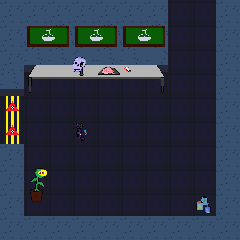
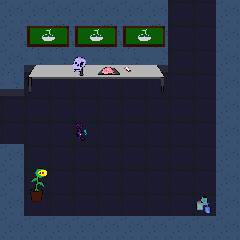
natureza3

Changed region(s): [[0.0, 0.3792, 0.0875, 0.6125]]

diff --git a/pages/natureza3.html b/pages/natureza3.html
@@ -1,0 +1,133 @@
+<link rel="stylesheet" href="../src/style.css">
+<script src="https://cdnjs.cloudflare.com/ajax/libs/jquery/3.7.1/jquery.min.js" integrity="sha512-v2CJ7UaYy4JwqLDIrZUI/4hqeoQieOmAZNXBeQyjo21dadnwR+8ZaIJVT8EE2iyI61OV8e6M8PP2/4hpQINQ/g==" crossorigin="anonymous" referrerpolicy="no-referrer"></script>
+
+<style>
+    .map {
+    background-image: url("../img/Map017.png");
+    width: calc(19 * var(--grid-cell));
+    height: calc(19 * var(--grid-cell));
+    }
+
+    #taskSet {
+        width: 210px;
+        height: 90px;
+        top: 150;
+        left: 140;
+    }
+
+    #taskOct {
+        width: 210px;
+        height: 90px;
+        top: 150;
+        left: 505;
+    }
+
+    #taskNov {
+        width: 210px;
+        height: 90px;
+        top: 150;
+        left: 870;
+    }
+
+    #goBack {
+        width: 120px;
+        height: 240px;
+        top: 490;
+        right: 0;
+    }
+</style>
+
+<body>
+    <div class="main">
+            <div class="child1">
+                <div class="title"><h1>Área de Natureza 3</h1></div>
+                <div id="message"></div>
+                <div class="frame">
+                    <div class="corner_topleft"></div>
+                    <div class="corner_topright"></div>
+                    <div class="corner_bottomleft"></div>
+                    <div class="corner_bottomright"></div>
+                    
+                    
+                    <div class="camera">
+                        <div class="map pixel-art">
+                            <div class="interactable" id="taskSet"></div>
+                            <div class="interactable" id="taskOct"></div>
+                            <div class="interactable" id="taskNov"></div>
+                            <div class="interactable" id="goBack"></div>
+                            <div class="character" facing="left" walking="true">
+                                <div class="shadow pixel-art"></div>
+                                <div class="character_spritesheet pixel-art"></div>
+                            </div>
+                        </div>
+                    </div>
+                </div>
+            </div>
+            <div class="child2">
+                <div class="title" id="att"><h1>Viewer de Atividades</h1></div>
+                <div class="media"></div>
+                <div class="description">
+                    <h3>Nesta área serão exibidas as atividades que você quiser oberservar. 
+                        Clique nos quadros dentro das salas de cada matéria para vê-las. Você 
+                        pode passar o mouse por cima para ver qual atividade é.</h3>
+                </div>
+            </div>
+    </div>
+    
+</body>
+
+<script src="../src/index.js"></script>
+<script>
+    x = 300;
+    y = 125;
+    leftLimit = 22;
+    rightLimit = 250;
+    topLimit = 80;
+    bottomLimit = 240;
+
+    $('.interactable').hover(function() {
+        let id = $(this).attr('id');
+        switch(id) {
+            case 'taskSet':
+                $('#message').html('<h2>Relações Harmônicas e Desarmônicas</h2>');
+                break;
+            case 'taskOct':
+                $('#message').html('<h2>Pilha de Limão</h2>');
+                break;
+            case 'taskNov':
+                $('#message').html('<h2>Fissão e Fusão Nuclear</h2>');
+                break;
+            case 'goBack':
+                $('#message').html('<h2>Entre nessa porta para voltar</h2>');
+                break;
+        }
+        setTimeout(function() {
+            $('#message').html('');
+        }, 3000);
+    })
+
+    $('.interactable').on('click', function() {
+        let id = $(this).attr('id');
+        let iframe = $(parent.document.getElementById("iframe"));
+        switch(id) {
+            case 'taskSet':
+                $('#att').html('<h1>Relações Harmônicas e Desarmônicas</h1>');
+                $('.description').html('<h3>Esta atividade consistiu em, em duplas ou trios, criar dois animais totalmente novos para um bioma, criando uma relação harmônica ou desamôrnica. Criamos o boto carmesin e o pássaro seta, o pássaro limpa o bico nos chifres do boto.</h3>');
+                $('.media').html(' <iframe width="450" height="500" src="https://docs.google.com/document/d/e/2PACX-1vTMqfxm_ZfWVtGaXroFfjXVSAtcR3DEv9c0bKjjnAvJTsNGFqOJddIl27UeQUlu8gWWqOKSEdhHoiuQ/pub?embedded=true"></iframe> ')
+                break;
+            case 'taskOct':
+                $('#att').html('<h1>Pilha de Limão</h1>');
+                $('.description').html('<h3>Neste desafio, construímos uma pilha caseira para aplicar conceitos de eletroquímica na prática. Usamos materiais simples e adaptamos instruções dos vídeos, exercitando nossa criatividade e habilidades de resolução de problemas. Nosso objetivo foi criar uma pilha funcional, compreendendo melhor as reações químicas que produzem eletricidade.</h3>');
+                $('.media').html('<iframe src="https://www.youtube.com/embed/fSERoLFkXXE?si=kB98gPMw_MC_1i43" width="450" height="500"></iframe>');
+                break;
+            case 'taskNov':
+                $('#att').html('<h1>Fissão e Fusão Nuclear</h1>');
+                $('.description').html('<h3>Nesta atividade, a turma foi dividida em grupos para desenvolver diversos produtos a serem apresentados na aula. O nosso foi um jogo de perguntas e respostas feito no Kahoot, para revisar os conceitos vindos dos produtos dos outros grupos.</h3>');
+                $('.media').html('<img src="../img/kahoot.png" width="450" height="500" />');
+                break;
+            case 'goBack':
+                iframe.attr('src','./pages/natureza2.html');
+                break;
+        }
+    })
+</script>

diff --git a/pages/natureza2.html b/pages/natureza2.html
@@ -35,6 +35,13 @@
         top: 140px;
         right: 120px;
     }
+
+    #goFow {
+        width: 125px;
+        height: 245px;
+        left: 0;
+        bottom: 485;
+    }
 </style>
 
 <body>
@@ -55,6 +62,7 @@
                             <div class="interactable" id="taskJul"></div>
                             <div class="interactable" id="taskAgo"></div>
                             <div class="interactable" id="goBack"></div>
+                            <div class="interactable" id="goFow"></div>
                             <div class="character" facing="down" walking="true">
                                 <div class="shadow pixel-art"></div>
                                 <div class="character_spritesheet pixel-art"></div>
@@ -100,6 +108,9 @@
             case 'goBack':
                 $('#message').html('<h2>Entre nessa porta para voltar</h2>');
                 break;
+            case 'goFow':
+                $('#message').html('<h2>Continue para o terceiro trimestre</h2>');
+                    break;
         }
         setTimeout(function() {
             $('#message').html('');
@@ -127,6 +138,9 @@
                 break;
             case 'goBack':
                 iframe.attr('src','./pages/natureza.html');
+                break;
+            case 'goFow':
+                iframe.attr('src', './pages/natureza3.html');
                 break;
         }
     })
